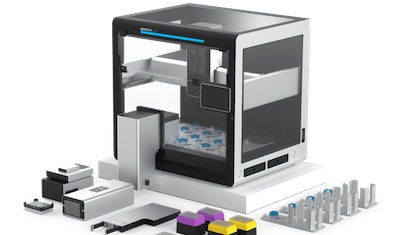
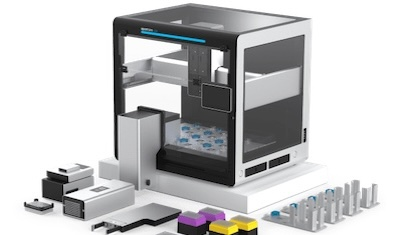
fix flex image size; add link to opentrons website

diff --git a/index.md b/index.md
@@ -43,7 +43,7 @@ header: no
 <div class="matchbook sectionTitle">Automation</div>
 <div class="row t30 sectionContent">
     <div class="medium-4 columns bottomMargin">
-        <a href="" class="wrappedLink">
+        <a href="https://opentrons.com/products/flex/" class="wrappedLink">
             <img class="borderImg" src="{{site.url}}/images/opentrons-flex-everything-small.jpg" alt="">
             <span class="overlayText">Opentrons Flex</span>
         </a>
